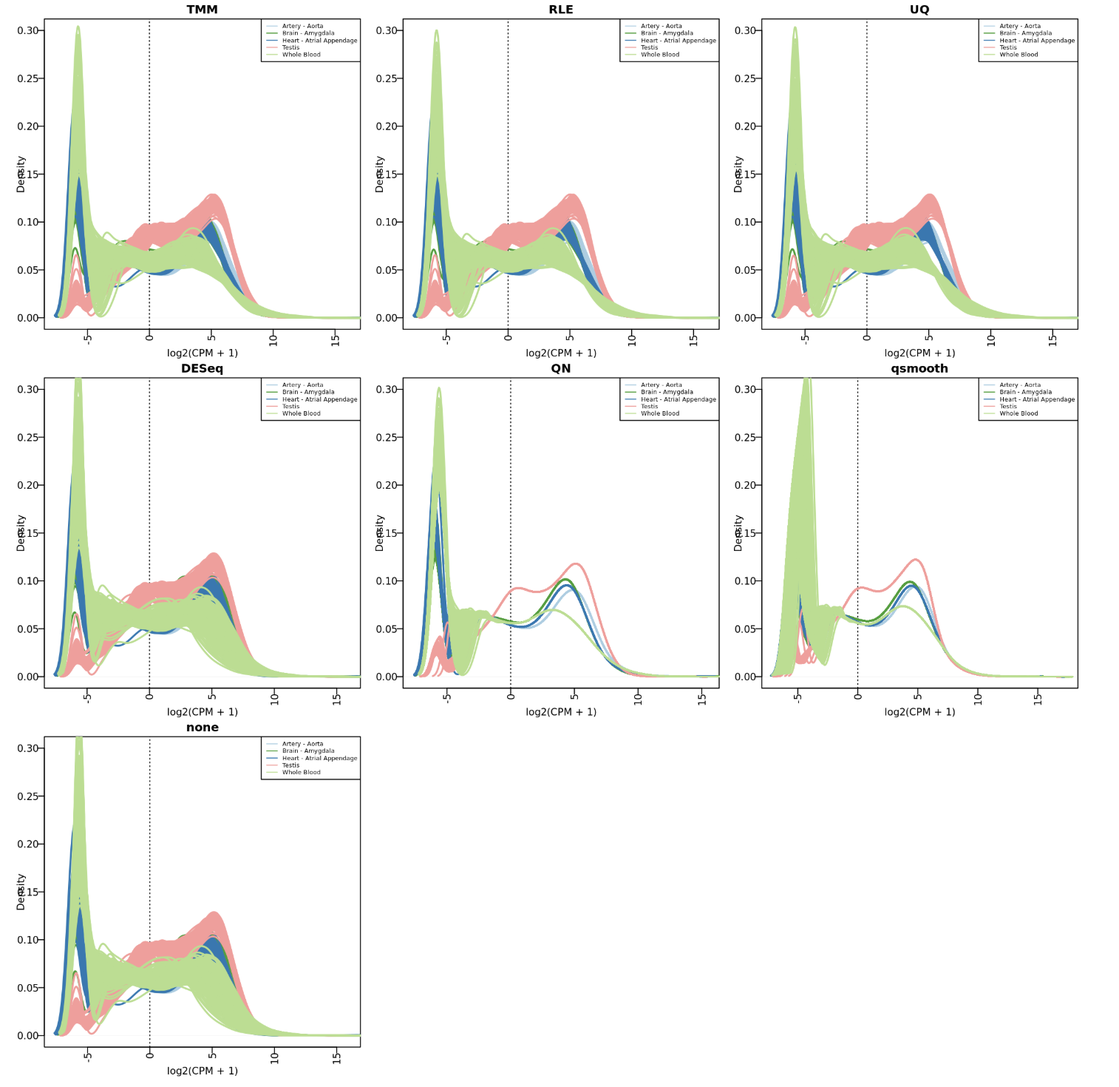
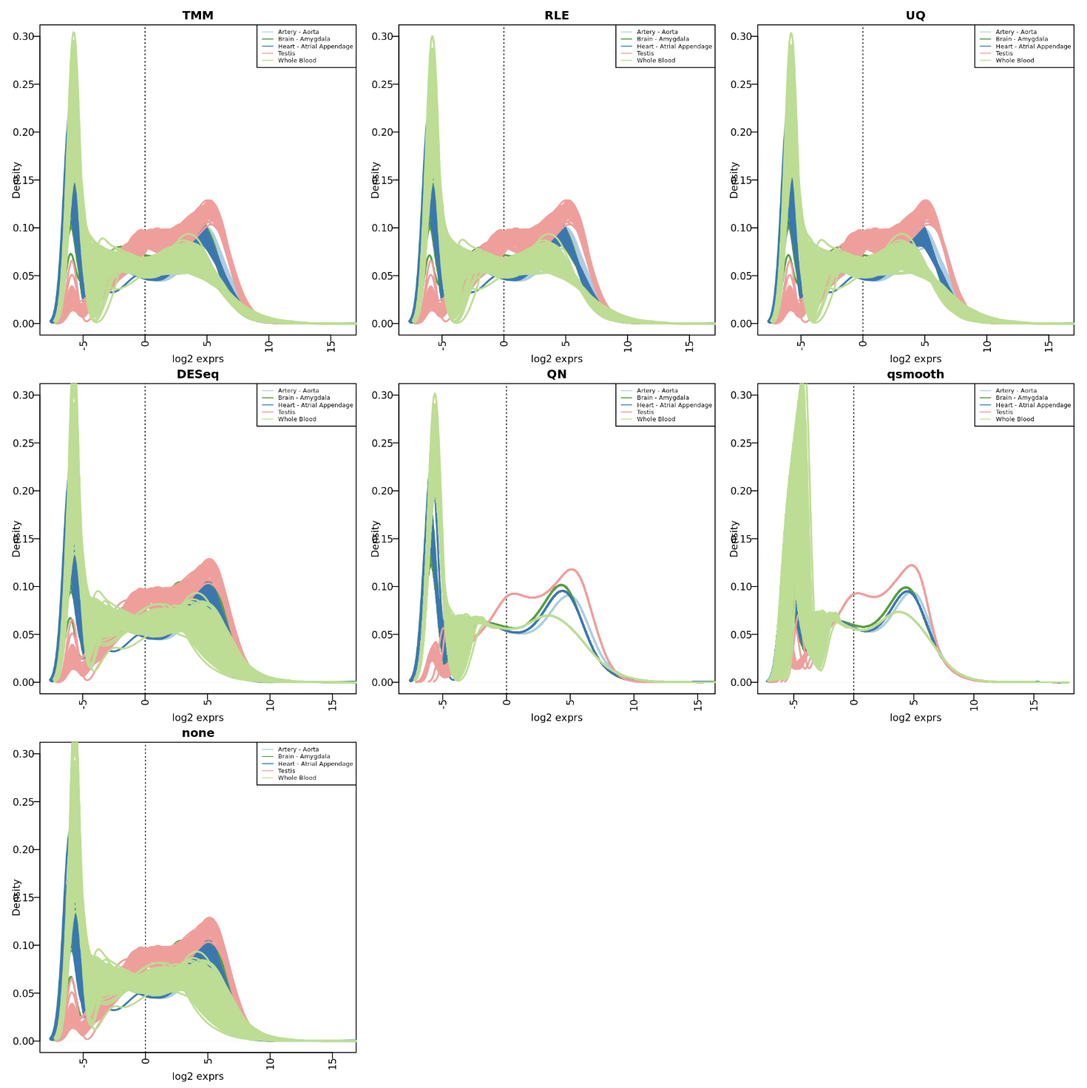
Site updated: 2019-12-26 15:07:43

Changed region(s): [[0.0, 0.0, 1.0, 1.0], [0.1224, 0.949, 0.1531, 0.9796]]

diff --git a/2019/12/25/RNA-norm-implement/index.html b/2019/12/25/RNA-norm-implement/index.html
@@ -7,7 +7,7 @@
     <meta name="HandheldFriendly" content="True">
     <meta name="viewport" content="width=device-width, initial-scale=1, maximum-scale=1">
     <meta name="description" content="In this post I’ll show some GTEx expresssion data using the normalization methods introduced in my last post: Normalization methods for RNA-seq. Actually I was suggested to compare all these methods b">
-<meta name="keywords" content="RNA-seq">
+<meta name="keywords" content="RNA-seq,Normalization">
 <meta property="og:type" content="article">
 <meta property="og:title" content="Implementations of normalization methods for RNA-seq">
 <meta property="og:url" content="http://yoursite.com/2019/12/25/RNA-norm-implement/index.html">
@@ -15,7 +15,7 @@
 <meta property="og:description" content="In this post I’ll show some GTEx expresssion data using the normalization methods introduced in my last post: Normalization methods for RNA-seq. Actually I was suggested to compare all these methods b">
 <meta property="og:locale" content="en">
 <meta property="og:image" content="http://yoursite.com/images/posts/RNA-norm/distributions.png">
-<meta property="og:updated_time" content="2019-12-25T09:37:41.585Z">
+<meta property="og:updated_time" content="2019-12-26T06:50:05.681Z">
 <meta name="twitter:card" content="summary">
 <meta name="twitter:title" content="Implementations of normalization methods for RNA-seq">
 <meta name="twitter:description" content="In this post I’ll show some GTEx expresssion data using the normalization methods introduced in my last post: Normalization methods for RNA-seq. Actually I was suggested to compare all these methods b">
@@ -140,7 +140,7 @@
       
     <div class="article-tag">
         <i class="fas fa-tag"></i>
-        <a class="tag-link" href="/tags/RNA-seq/">RNA-seq</a>
+        <a class="tag-link" href="/tags/Normalization/">Normalization</a>, <a class="tag-link" href="/tags/RNA-seq/">RNA-seq</a>
     </div>
 
 
@@ -151,7 +151,7 @@
   <div class="content" itemprop="articleBody">
     <p>In this post I’ll show some GTEx expresssion data using the normalization methods introduced in my last post: <a href="https://chilampoon.github.io/2019/12/17/RNA-norm/" target="_blank" rel="noopener">Normalization methods for RNA-seq</a>.</p>
 <p>Actually I was suggested to compare all these methods before doing DE analylsis by Joey, my advisor :P, I thought just using qsmooth was OK, but we finally ended up with tissue-aware quantile normalization.</p>
-<h2 id="Filter-Genes"><a href="#Filter-Genes" class="headerlink" title="Filter Genes"></a>Filter Genes</h2><p>I am manipulating GTEx v8 data, I first filtered lowly-expressed genes after some prepossesses:</p>
+<h2 id="Filter-Genes"><a href="#Filter-Genes" class="headerlink" title="Filter Genes"></a>Filter Genes</h2><p>I am manipulating GTEx v8 data, so I first filtered lowly-expressed genes after some prepossesses:</p>
 <figure class="highlight plain"><table><tr><td class="gutter"><pre><span class="line">1</span><br><span class="line">2</span><br><span class="line">3</span><br><span class="line">4</span><br><span class="line">5</span><br><span class="line">6</span><br><span class="line">7</span><br><span class="line">8</span><br><span class="line">9</span><br><span class="line">10</span><br><span class="line">11</span><br><span class="line">12</span><br><span class="line">13</span><br><span class="line">14</span><br></pre></td><td class="code"><pre><span class="line">library(edgeR)</span><br><span class="line">tissue.no &lt;- pData(eset) %&gt;%</span><br><span class="line">             group_by(SMTSD) %&gt;%</span><br><span class="line">             summarise(n=n())</span><br><span class="line"></span><br><span class="line"># in tissue-aware manner, refer to YARN paper</span><br><span class="line">min(tissue.no$n) #113</span><br><span class="line">minSamples &lt;- floor(min(tissue.no$n)/2)</span><br><span class="line">cnt.cpm &lt;- cpm(exprs(eset))</span><br><span class="line">keep &lt;- rowSums(cnt.cpm &gt; 1) &gt;= minSamples</span><br><span class="line">eset &lt;- eset[keep,]</span><br><span class="line">dim(eset)</span><br><span class="line">## Features  Samples</span><br><span class="line">##    29212    14437</span><br></pre></td></tr></table></figure>
 
 <h2 id="Compare-Normalization"><a href="#Compare-Normalization" class="headerlink" title="Compare Normalization"></a>Compare Normalization</h2><p>Normalize selected samples in tissue-aware way.</p>
@@ -165,14 +165,14 @@
 <li><strong>none</strong>: original data</li>
 </ol>
 <p>The following is a simple function to perform all of these, extended the one in <code>yarn</code>.</p>
-<figure class="highlight plain"><table><tr><td class="gutter"><pre><span class="line">1</span><br><span class="line">2</span><br><span class="line">3</span><br><span class="line">4</span><br><span class="line">5</span><br><span class="line">6</span><br><span class="line">7</span><br><span class="line">8</span><br><span class="line">9</span><br><span class="line">10</span><br><span class="line">11</span><br><span class="line">12</span><br><span class="line">13</span><br><span class="line">14</span><br><span class="line">15</span><br><span class="line">16</span><br><span class="line">17</span><br><span class="line">18</span><br><span class="line">19</span><br><span class="line">20</span><br><span class="line">21</span><br><span class="line">22</span><br><span class="line">23</span><br><span class="line">24</span><br><span class="line">25</span><br><span class="line">26</span><br><span class="line">27</span><br><span class="line">28</span><br><span class="line">29</span><br><span class="line">30</span><br><span class="line">31</span><br><span class="line">32</span><br><span class="line">33</span><br><span class="line">34</span><br><span class="line">35</span><br><span class="line">36</span><br><span class="line">37</span><br><span class="line">38</span><br><span class="line">39</span><br><span class="line">40</span><br><span class="line">41</span><br><span class="line">42</span><br><span class="line">43</span><br><span class="line">44</span><br><span class="line">45</span><br><span class="line">46</span><br><span class="line">47</span><br><span class="line">48</span><br><span class="line">49</span><br><span class="line">50</span><br><span class="line">51</span><br><span class="line">52</span><br><span class="line">53</span><br><span class="line">54</span><br><span class="line">55</span><br><span class="line">56</span><br><span class="line">57</span><br><span class="line">58</span><br><span class="line">59</span><br><span class="line">60</span><br><span class="line">61</span><br><span class="line">62</span><br><span class="line">63</span><br><span class="line">64</span><br><span class="line">65</span><br><span class="line">66</span><br><span class="line">67</span><br><span class="line">68</span><br><span class="line">69</span><br></pre></td><td class="code"><pre><span class="line">## tissue aware normalization, all returing log2(CPM + 1) since limma uses CPM</span><br><span class="line">tissue.aware.norm &lt;- function(eset, tissues, method=c(&apos;TMM&apos;, &apos;RLE&apos;, &apos;UQ&apos;, &apos;DESeq&apos;, &apos;QN&apos;, &apos;qsmooth&apos;, &apos;none&apos;)) &#123;</span><br><span class="line">  suppressPackageStartupMessages(&#123;</span><br><span class="line">    library(edgeR)</span><br><span class="line">    library(doParallel)</span><br><span class="line">    library(preprocessCore)</span><br><span class="line">    library(DESeq2)</span><br><span class="line">    library(qsmooth)</span><br><span class="line">  &#125;)</span><br><span class="line">  registerDoParallel()</span><br><span class="line">  if (tissues == &apos;SMTSD&apos;) tissues &lt;- factor(pData(eset)[, &apos;SMTSD&apos;])</span><br><span class="line"></span><br><span class="line">  if (method == &apos;TMM&apos;) &#123;</span><br><span class="line">    # weights are from the delta method on Binomial data</span><br><span class="line">    normalizedMatrix &lt;- foreach(tissue = unique(tissues), .combine = cbind) %dopar% &#123;</span><br><span class="line">      cnts &lt;- exprs(eset[, which(pData(eset)$SMTSD %in% tissue)])</span><br><span class="line">      dge &lt;- DGEList(cnts)</span><br><span class="line">      dge &lt;- calcNormFactors(dge, method = &apos;TMM&apos;)</span><br><span class="line">      cpm(dge, log = T, prior.count = 1)</span><br><span class="line">    &#125;</span><br><span class="line">  &#125; else if (method == &apos;RLE&apos;) &#123;</span><br><span class="line">    # the median ratio of each sample to the median library (geometric mean of all columns) is taken as the scale factor</span><br><span class="line">    normalizedMatrix &lt;- foreach(tissue = unique(tissues), .combine = cbind) %dopar% &#123;</span><br><span class="line">      cnts &lt;- exprs(eset[, which(pData(eset)$SMTSD %in% tissue)])</span><br><span class="line">      dge &lt;- DGEList(cnts)</span><br><span class="line">      dge &lt;- calcNormFactors(dge, method = &apos;RLE&apos;)</span><br><span class="line">      cpm(dge, log = T, prior.count = 1)</span><br><span class="line">    &#125;</span><br><span class="line">  &#125; else if (method == &apos;UQ&apos;) &#123;</span><br><span class="line">    # the scale factors are calculated from the 75% quantile of the counts for each library</span><br><span class="line">    normalizedMatrix &lt;- foreach(tissue = unique(tissues), .combine = cbind) %dopar% &#123;</span><br><span class="line">      cnts &lt;- exprs(eset[, which(pData(eset)$SMTSD %in% tissue)])</span><br><span class="line">      dge &lt;- DGEList(cnts)</span><br><span class="line">      dge &lt;- calcNormFactors(dge, method = &apos;upperquartile&apos;)</span><br><span class="line">      cpm(dge, log = T, prior.count = 1)</span><br><span class="line">    &#125;</span><br><span class="line">  &#125; else if (method == &apos;none&apos;) &#123;</span><br><span class="line">    # scale factors are 1</span><br><span class="line">    normalizedMatrix &lt;- foreach(tissue = unique(tissues), .combine = cbind) %dopar% &#123;</span><br><span class="line">      cnts &lt;- exprs(eset[, which(pData(eset)$SMTSD %in% tissue)])</span><br><span class="line">      dge &lt;- DGEList(cnts)</span><br><span class="line">      dge &lt;- calcNormFactors(dge, method = &apos;none&apos;)</span><br><span class="line">      cpm(dge, log = T, prior.count = 1)</span><br><span class="line">    &#125;</span><br><span class="line">  &#125; else if (method == &apos;DESeq&apos;) &#123;</span><br><span class="line">    # counts divided by median ratio of gene counts relative to geometric mean per gene</span><br><span class="line">    normalizedMatrix &lt;- foreach(tissue = unique(tissues), .combine = cbind) %dopar% &#123;</span><br><span class="line">      cnts &lt;- exprs(eset[, which(pData(eset)$SMTSD %in% tissue)])</span><br><span class="line">      dds &lt;- DESeqDataSetFromMatrix(countData = cnts, colData = pData(eset[, which(pData(eset)$SMTSD %in% tissue)]), design = ~ 1)</span><br><span class="line">      dds &lt;- estimateSizeFactors(dds)</span><br><span class="line">      nmat &lt;- counts(dds, normalized=T)</span><br><span class="line">      cpm(nmat, log = T, prior.count = 1)</span><br><span class="line">    &#125;</span><br><span class="line">  &#125; else if (method == &apos;QN&apos;) &#123;</span><br><span class="line">    normalizedMatrix &lt;- foreach(tissue = unique(tissues), .combine = cbind) %dopar% &#123;</span><br><span class="line">      cnts &lt;- exprs(eset[, which(pData(eset)$SMTSD %in% tissue)])</span><br><span class="line">      nmat &lt;- normalize.quantiles(cnts, copy=F)</span><br><span class="line">      cpm(nmat, log = T, prior.count = 1)</span><br><span class="line">    &#125;</span><br><span class="line">  &#125; else if (method == &apos;qsmooth&apos;) &#123;</span><br><span class="line">    exprs &lt;- exprs(eset)</span><br><span class="line">    qs &lt;- qsmooth(exprs, group_factor = tissues)</span><br><span class="line">    normalizedMatrix &lt;- qsmoothData(qs)</span><br><span class="line">    normalizedMatrix &lt;- cpm(normalizedMatrix, log = T, prior.count = 1)</span><br><span class="line">  &#125; else &#123;</span><br><span class="line">    stop(&apos;YEEEE... code it by yourself if you wanna do it.&apos;)</span><br><span class="line">  &#125;</span><br><span class="line">  normalizedMatrix</span><br><span class="line">&#125;</span><br></pre></td></tr></table></figure>
+<figure class="highlight plain"><table><tr><td class="gutter"><pre><span class="line">1</span><br><span class="line">2</span><br><span class="line">3</span><br><span class="line">4</span><br><span class="line">5</span><br><span class="line">6</span><br><span class="line">7</span><br><span class="line">8</span><br><span class="line">9</span><br><span class="line">10</span><br><span class="line">11</span><br><span class="line">12</span><br><span class="line">13</span><br><span class="line">14</span><br><span class="line">15</span><br><span class="line">16</span><br><span class="line">17</span><br><span class="line">18</span><br><span class="line">19</span><br><span class="line">20</span><br><span class="line">21</span><br><span class="line">22</span><br><span class="line">23</span><br><span class="line">24</span><br><span class="line">25</span><br><span class="line">26</span><br><span class="line">27</span><br><span class="line">28</span><br><span class="line">29</span><br><span class="line">30</span><br><span class="line">31</span><br><span class="line">32</span><br><span class="line">33</span><br><span class="line">34</span><br><span class="line">35</span><br><span class="line">36</span><br><span class="line">37</span><br><span class="line">38</span><br><span class="line">39</span><br><span class="line">40</span><br><span class="line">41</span><br><span class="line">42</span><br><span class="line">43</span><br><span class="line">44</span><br><span class="line">45</span><br><span class="line">46</span><br><span class="line">47</span><br><span class="line">48</span><br><span class="line">49</span><br><span class="line">50</span><br><span class="line">51</span><br><span class="line">52</span><br><span class="line">53</span><br><span class="line">54</span><br><span class="line">55</span><br><span class="line">56</span><br><span class="line">57</span><br><span class="line">58</span><br><span class="line">59</span><br><span class="line">60</span><br><span class="line">61</span><br><span class="line">62</span><br><span class="line">63</span><br><span class="line">64</span><br><span class="line">65</span><br><span class="line">66</span><br><span class="line">67</span><br><span class="line">68</span><br><span class="line">69</span><br><span class="line">70</span><br></pre></td><td class="code"><pre><span class="line">## tissue aware normalization, all returing log2-transformed cpm since limma uses cpm</span><br><span class="line">tissue.aware.norm &lt;- function(eset, tissues, method=c(&apos;TMM&apos;, &apos;RLE&apos;, &apos;UQ&apos;, &apos;DESeq&apos;, &apos;QN&apos;, &apos;qsmooth&apos;, &apos;none&apos;)) &#123;</span><br><span class="line">  suppressPackageStartupMessages(&#123;</span><br><span class="line">    library(edgeR)</span><br><span class="line">    library(doParallel)</span><br><span class="line">    library(preprocessCore)</span><br><span class="line">    library(DESeq2)</span><br><span class="line">    library(qsmooth)</span><br><span class="line">  &#125;)</span><br><span class="line">  registerDoParallel()</span><br><span class="line">  if (tissues == &apos;SMTSD&apos;) tissues &lt;- factor(pData(eset)[, &apos;SMTSD&apos;])</span><br><span class="line"></span><br><span class="line">  if (method == &apos;TMM&apos;) &#123;</span><br><span class="line">    # weights are from the delta method on Binomial data</span><br><span class="line">    normalizedMatrix &lt;- foreach(tissue = unique(tissues), .combine = cbind) %dopar% &#123;</span><br><span class="line">      cnts &lt;- exprs(eset[, which(pData(eset)$SMTSD %in% tissue)])</span><br><span class="line">      dge &lt;- DGEList(cnts)</span><br><span class="line">      dge &lt;- calcNormFactors(dge, method = &apos;TMM&apos;)</span><br><span class="line">      cpm(dge, log = T, prior.count = 1)</span><br><span class="line">    &#125;</span><br><span class="line">  &#125; else if (method == &apos;RLE&apos;) &#123;</span><br><span class="line">    # the median ratio of each sample to the median library (geometric mean of all columns) is taken as the scale factor</span><br><span class="line">    normalizedMatrix &lt;- foreach(tissue = unique(tissues), .combine = cbind) %dopar% &#123;</span><br><span class="line">      cnts &lt;- exprs(eset[, which(pData(eset)$SMTSD %in% tissue)])</span><br><span class="line">      dge &lt;- DGEList(cnts)</span><br><span class="line">      dge &lt;- calcNormFactors(dge, method = &apos;RLE&apos;)</span><br><span class="line">      cpm(dge, log = T, prior.count = 1)</span><br><span class="line">    &#125;</span><br><span class="line">  &#125; else if (method == &apos;UQ&apos;) &#123;</span><br><span class="line">    # the scale factors are calculated from the 75% quantile of the counts for each library</span><br><span class="line">    normalizedMatrix &lt;- foreach(tissue = unique(tissues), .combine = cbind) %dopar% &#123;</span><br><span class="line">      cnts &lt;- exprs(eset[, which(pData(eset)$SMTSD %in% tissue)])</span><br><span class="line">      dge &lt;- DGEList(cnts)</span><br><span class="line">      dge &lt;- calcNormFactors(dge, method = &apos;upperquartile&apos;)</span><br><span class="line">      cpm(dge, log = T, prior.count = 1)</span><br><span class="line">    &#125;</span><br><span class="line">  &#125; else if (method == &apos;none&apos;) &#123;</span><br><span class="line">    # scale factors are 1</span><br><span class="line">    normalizedMatrix &lt;- foreach(tissue = unique(tissues), .combine = cbind) %dopar% &#123;</span><br><span class="line">      cnts &lt;- exprs(eset[, which(pData(eset)$SMTSD %in% tissue)])</span><br><span class="line">      dge &lt;- DGEList(cnts)</span><br><span class="line">      dge &lt;- calcNormFactors(dge, method = &apos;none&apos;)</span><br><span class="line">      cpm(dge, log = T, prior.count = 1)</span><br><span class="line">    &#125;</span><br><span class="line">  &#125; else if (method == &apos;DESeq&apos;) &#123;</span><br><span class="line">    # counts divided by median ratio of gene counts relative to geometric mean per gene</span><br><span class="line">    normalizedMatrix &lt;- foreach(tissue = unique(tissues), .combine = cbind) %dopar% &#123;</span><br><span class="line">      cnts &lt;- exprs(eset[, which(pData(eset)$SMTSD %in% tissue)])</span><br><span class="line">      dds &lt;- DESeqDataSetFromMatrix(countData = cnts, colData = pData(eset[, which(pData(eset)$SMTSD %in% tissue)]), design = ~ 1)</span><br><span class="line">      dds &lt;- estimateSizeFactors(dds)</span><br><span class="line">      #cpm &lt;- fpm(dds, robust = T) #a robust method using specific library sizes</span><br><span class="line">      nmat &lt;- counts(dds, normalized=T)</span><br><span class="line">      cpm(nmat, log = T, prior.count = 1)</span><br><span class="line">    &#125;</span><br><span class="line">  &#125; else if (method == &apos;QN&apos;) &#123;</span><br><span class="line">    normalizedMatrix &lt;- foreach(tissue = unique(tissues), .combine = cbind) %dopar% &#123;</span><br><span class="line">      cnts &lt;- exprs(eset[, which(pData(eset)$SMTSD %in% tissue)])</span><br><span class="line">      nmat &lt;- normalize.quantiles(cnts, copy=F)</span><br><span class="line">      cpm(nmat, log = T, prior.count = 1)</span><br><span class="line">    &#125;</span><br><span class="line">  &#125; else if (method == &apos;qsmooth&apos;) &#123;</span><br><span class="line">    exprs &lt;- exprs(eset)</span><br><span class="line">    qs &lt;- qsmooth(exprs, group_factor = tissues)</span><br><span class="line">    normalizedMatrix &lt;- qsmoothData(qs)</span><br><span class="line">    normalizedMatrix &lt;- cpm(normalizedMatrix, log = T, prior.count = 1)</span><br><span class="line">  &#125; else &#123;</span><br><span class="line">    stop(&apos;YEEEE... code it by yourself if you wanna do it.&apos;)</span><br><span class="line">  &#125;</span><br><span class="line">  normalizedMatrix</span><br><span class="line">&#125;</span><br></pre></td></tr></table></figure>
 
 <h2 id="Visualize-distributions"><a href="#Visualize-distributions" class="headerlink" title="Visualize distributions"></a>Visualize distributions</h2><p>I chose some tissues to see their distribution.</p>
 <p>Some helper functions:</p>
-<figure class="highlight plain"><table><tr><td class="gutter"><pre><span class="line">1</span><br><span class="line">2</span><br><span class="line">3</span><br><span class="line">4</span><br><span class="line">5</span><br><span class="line">6</span><br><span class="line">7</span><br><span class="line">8</span><br><span class="line">9</span><br><span class="line">10</span><br><span class="line">11</span><br><span class="line">12</span><br><span class="line">13</span><br><span class="line">14</span><br><span class="line">15</span><br><span class="line">16</span><br><span class="line">17</span><br><span class="line">18</span><br><span class="line">19</span><br><span class="line">20</span><br><span class="line">21</span><br><span class="line">22</span><br><span class="line">23</span><br><span class="line">24</span><br><span class="line">25</span><br><span class="line">26</span><br><span class="line">27</span><br><span class="line">28</span><br><span class="line">29</span><br><span class="line">30</span><br><span class="line">31</span><br><span class="line">32</span><br></pre></td><td class="code"><pre><span class="line">getColors &lt;- function(vec) &#123;</span><br><span class="line">  # assgin a color to each group of samples</span><br><span class="line">  library(RColorBrewer)</span><br><span class="line">  n &lt;- length(unique(vec))</span><br><span class="line">  col &lt;- brewer.pal(n, &quot;Paired&quot;)</span><br><span class="line">  #col &lt;- brewer.pal.info[brewer.pal.info$category==&apos;qual&apos;, ] # get max. 74 colours</span><br><span class="line">  #col_all &lt;- unlist(mapply(brewer.pal, col$maxcolors, rownames(col)))</span><br><span class="line">  ifelse (n &gt; length(col),</span><br><span class="line">          cvec &lt;- sample(col, n, replace=T),</span><br><span class="line">          cvec &lt;- sample(col, n, replace=F)</span><br><span class="line">  )</span><br><span class="line">  vec &lt;- as.character(vec)</span><br><span class="line">  names(vec) &lt;- rep(NA, length(vec))</span><br><span class="line">  for (g in 1:length(unique(vec))) &#123;</span><br><span class="line">    names(vec)[which(vec==unique(vec)[g])] &lt;- cvec[g]</span><br><span class="line">  &#125;</span><br><span class="line">  vec</span><br><span class="line">&#125;</span><br><span class="line"></span><br><span class="line"></span><br><span class="line">dens.plot &lt;- function(table, colVec, ylim, main) &#123;</span><br><span class="line">  cols &lt;- names(colVec)</span><br><span class="line">  d &lt;- plot(density(table[, 1]), col=cols[1],</span><br><span class="line">            lwd=2, las=2, ylim=ylim, main=&quot;&quot;, xlab=&quot;&quot;) +</span><br><span class="line">    abline(v=0, lty=3) + title(xlab=&quot;log2(CPM + 1)&quot;, ylab=NA, main=main) +</span><br><span class="line">    for (i in 2:ncol(table)) &#123;</span><br><span class="line">      den &lt;- density(table[, i])</span><br><span class="line">      lines(den$x, den$y, col=cols[i], lwd=2)</span><br><span class="line">    &#125;</span><br><span class="line">  legend(&apos;topright&apos;, legend=unique(colVector), lty=1, col=unique(names(colVector)), cex=0.6)</span><br><span class="line">  d</span><br><span class="line">&#125;</span><br></pre></td></tr></table></figure>
+<figure class="highlight plain"><table><tr><td class="gutter"><pre><span class="line">1</span><br><span class="line">2</span><br><span class="line">3</span><br><span class="line">4</span><br><span class="line">5</span><br><span class="line">6</span><br><span class="line">7</span><br><span class="line">8</span><br><span class="line">9</span><br><span class="line">10</span><br><span class="line">11</span><br><span class="line">12</span><br><span class="line">13</span><br><span class="line">14</span><br><span class="line">15</span><br><span class="line">16</span><br><span class="line">17</span><br><span class="line">18</span><br><span class="line">19</span><br><span class="line">20</span><br><span class="line">21</span><br><span class="line">22</span><br><span class="line">23</span><br><span class="line">24</span><br><span class="line">25</span><br><span class="line">26</span><br><span class="line">27</span><br><span class="line">28</span><br><span class="line">29</span><br><span class="line">30</span><br><span class="line">31</span><br><span class="line">32</span><br></pre></td><td class="code"><pre><span class="line">getColors &lt;- function(vec) &#123;</span><br><span class="line">  # assgin a color to each group of samples</span><br><span class="line">  library(RColorBrewer)</span><br><span class="line">  n &lt;- length(unique(vec))</span><br><span class="line">  col &lt;- brewer.pal(n, &quot;Paired&quot;)</span><br><span class="line">  #col &lt;- brewer.pal.info[brewer.pal.info$category==&apos;qual&apos;, ] # get max. 74 colours</span><br><span class="line">  #col_all &lt;- unlist(mapply(brewer.pal, col$maxcolors, rownames(col)))</span><br><span class="line">  ifelse (n &gt; length(col),</span><br><span class="line">          cvec &lt;- sample(col, n, replace=T),</span><br><span class="line">          cvec &lt;- sample(col, n, replace=F)</span><br><span class="line">  )</span><br><span class="line">  vec &lt;- as.character(vec)</span><br><span class="line">  names(vec) &lt;- rep(NA, length(vec))</span><br><span class="line">  for (g in 1:length(unique(vec))) &#123;</span><br><span class="line">    names(vec)[which(vec==unique(vec)[g])] &lt;- cvec[g]</span><br><span class="line">  &#125;</span><br><span class="line">  vec</span><br><span class="line">&#125;</span><br><span class="line"></span><br><span class="line"></span><br><span class="line">dens.plot &lt;- function(table, colVec, ...) &#123;</span><br><span class="line">  cols &lt;- names(colVec)</span><br><span class="line">  d &lt;- plot(density(table[, 1]), col=cols[1],</span><br><span class="line">            lwd=2, las=2, xlab=&quot;&quot;, ...) +</span><br><span class="line">    abline(v=0, lty=3) + title(xlab=&quot;log2 exprs&quot;, ylab=NA) +</span><br><span class="line">    for (i in 2:ncol(table)) &#123;</span><br><span class="line">      den &lt;- density(table[, i])</span><br><span class="line">      lines(den$x, den$y, col=cols[i], lwd=2)</span><br><span class="line">    &#125;</span><br><span class="line">  legend(&apos;topright&apos;, legend=unique(colVector), lty=1, col=unique(names(colVector)), cex=0.6)</span><br><span class="line">  d</span><br><span class="line">&#125;</span><br></pre></td></tr></table></figure>
 
 <p>Present the distributions:</p>
-<figure class="highlight plain"><table><tr><td class="gutter"><pre><span class="line">1</span><br><span class="line">2</span><br><span class="line">3</span><br><span class="line">4</span><br><span class="line">5</span><br><span class="line">6</span><br><span class="line">7</span><br><span class="line">8</span><br><span class="line">9</span><br><span class="line">10</span><br><span class="line">11</span><br><span class="line">12</span><br><span class="line">13</span><br><span class="line">14</span><br><span class="line">15</span><br><span class="line">16</span><br><span class="line">17</span><br><span class="line">18</span><br><span class="line">19</span><br></pre></td><td class="code"><pre><span class="line">selectt &lt;- c(&apos;Brain - Amygdala&apos;, &apos;Artery - Aorta&apos;, &apos;Heart - Atrial Appendage&apos;, &apos;Whole Blood&apos;, &apos;Testis&apos;)</span><br><span class="line">sub.eset &lt;- eset[, which(pData(eset)$SMTSD %in% selectt)]</span><br><span class="line">dim(sub.eset)</span><br><span class="line"></span><br><span class="line">dist.list &lt;- list()</span><br><span class="line">for (n in c(&apos;TMM&apos;, &apos;RLE&apos;, &apos;UQ&apos;, &apos;DESeq&apos;, &apos;QN&apos;, &apos;qsmooth&apos;, &apos;none&apos;)) &#123;</span><br><span class="line">  dist.list[[n]] &lt;- tissue.aware.norm(sub.eset, &quot;SMTSD&quot;, n)</span><br><span class="line">&#125;</span><br><span class="line">saveRDS(dist.list, file=&apos;~/cvd/v8/exprs/norm.cpm.rds&apos;)</span><br><span class="line"></span><br><span class="line">sub.p &lt;- pData(sub.eset)</span><br><span class="line">sub.p$SMTSD &lt;- factor(sub.p$SMTSD)</span><br><span class="line">sub.p &lt;- sub.p[order(sub.p$SMTSD),]</span><br><span class="line">colVector &lt;- getColors(sub.p$SMTSD)</span><br><span class="line"></span><br><span class="line">mypar(3, 3)</span><br><span class="line">for (n in c(&apos;TMM&apos;, &apos;RLE&apos;, &apos;UQ&apos;, &apos;DESeq&apos;, &apos;QN&apos;, &apos;qsmooth&apos;, &apos;none&apos;)) &#123;</span><br><span class="line">  print(dens.plot(dist.list[[n]][,match(rownames(sub.p), colnames(dist.list[[n]]))], colVector, c(0, 0.3), title=n))</span><br><span class="line">&#125;</span><br></pre></td></tr></table></figure>
+<figure class="highlight plain"><table><tr><td class="gutter"><pre><span class="line">1</span><br><span class="line">2</span><br><span class="line">3</span><br><span class="line">4</span><br><span class="line">5</span><br><span class="line">6</span><br><span class="line">7</span><br><span class="line">8</span><br><span class="line">9</span><br><span class="line">10</span><br><span class="line">11</span><br><span class="line">12</span><br><span class="line">13</span><br><span class="line">14</span><br><span class="line">15</span><br><span class="line">16</span><br><span class="line">17</span><br><span class="line">18</span><br><span class="line">19</span><br><span class="line">20</span><br></pre></td><td class="code"><pre><span class="line">selectt &lt;- c(&apos;Brain - Amygdala&apos;, &apos;Artery - Aorta&apos;, &apos;Heart - Atrial Appendage&apos;, &apos;Whole Blood&apos;, &apos;Testis&apos;)</span><br><span class="line">sub.eset &lt;- eset[, which(pData(eset)$SMTSD %in% selectt)]</span><br><span class="line">dim(sub.eset)</span><br><span class="line"></span><br><span class="line">dist.list &lt;- list()</span><br><span class="line">methods &lt;- c(&apos;TMM&apos;, &apos;RLE&apos;, &apos;UQ&apos;, &apos;DESeq&apos;, &apos;QN&apos;, &apos;qsmooth&apos;, &apos;none&apos;)</span><br><span class="line">for (n in methods) &#123;</span><br><span class="line">  dist.list[[n]] &lt;- tissue.aware.norm(sub.eset, &quot;SMTSD&quot;, n)</span><br><span class="line">&#125;</span><br><span class="line">#saveRDS(dist.list, file=&apos;~/cvd/v8/exprs/norm.cpm.rds&apos;)</span><br><span class="line"></span><br><span class="line">sub.p &lt;- pData(sub.eset)</span><br><span class="line">sub.p$SMTSD &lt;- factor(sub.p$SMTSD)</span><br><span class="line">sub.p &lt;- sub.p[order(sub.p$SMTSD),]</span><br><span class="line">colVector &lt;- getColors(sub.p$SMTSD)</span><br><span class="line"></span><br><span class="line">mypar(3, 3)</span><br><span class="line">for (n in methods) &#123;</span><br><span class="line">  print(dens.plot(dist.list[[n]][,match(rownames(sub.p), colnames(dist.list[[n]]))], colVector, ylim=c(0, 0.3), main=n))</span><br><span class="line">&#125;</span><br></pre></td></tr></table></figure>
 
 <img src="/images/posts/RNA-norm/distributions.png" alt="distributions" width="1000">
 

diff --git a/tags/Normalization/index.html b/tags/Normalization/index.html
@@ -1,0 +1,199 @@
+<!DOCTYPE html>
+<html lang=en>
+<head><meta name="generator" content="Hexo 3.9.0">
+    <!-- so meta -->
+    <meta charset="utf-8">
+    <meta http-equiv="X-UA-Compatible" content="IE=edge">
+    <meta name="HandheldFriendly" content="True">
+    <meta name="viewport" content="width=device-width, initial-scale=1, maximum-scale=1">
+    <meta property="og:type" content="website">
+<meta property="og:title" content="Chi Lam Poon">
+<meta property="og:url" content="http://yoursite.com/tags/Normalization/index.html">
+<meta property="og:site_name" content="Chi Lam Poon">
+<meta property="og:locale" content="en">
+<meta name="twitter:card" content="summary">
+<meta name="twitter:title" content="Chi Lam Poon">
+    
+    
+        
+          
+              <link rel="shortcut icon" href="/images/favicon-new/favicon.ico">
+          
+        
+        
+          
+            <link rel="icon" type="image/png" href="/images/favicon-new/android-chrome-192x192.png" sizes="192x192">
+          
+        
+        
+          
+            <link rel="apple-touch-icon" sizes="180x180" href="https://www.gravatar.com/avatar/fbe15844b2cac484bb2b10c24e605040?s=180">
+          
+        
+    
+    <!-- title -->
+    <title>Tag: Normalization</title>
+    <!-- styles -->
+    <link rel="stylesheet" href="/css/style.css">
+    <!-- persian styles -->
+    
+      <link rel="stylesheet" href="/css/rtl.css">
+    
+    <!-- rss -->
+    
+    
+</head>
+
+<body class="max-width mx-auto px3 ltr">
+    
+    <div class="content index py4">
+        
+          <header id="header">
+  <a href="/">
+  
+    
+      <div id="logo" style="background-image: url(/images/favicon-new/android-chrome-256x256.png);"></div>
+    
+  
+    <div id="title">
+      <h1>Chi Lam Poon</h1>
+    </div>
+  </a>
+  <div id="nav">
+    <ul>
+      <li class="icon">
+        <a href="#"><i class="fas fa-bars fa-2x"></i></a>
+      </li>
+       
+        <li><a href="/">Home</a></li>
+       
+        <li><a href="/about/">About</a></li>
+       
+        <li><a href="/archives/">Blog</a></li>
+       
+        <li><a href="/projects/">Projects</a></li>
+       
+        <li><a href="/friends/">Friends</a></li>
+      
+    </ul>
+  </div>
+</header>
+
+        
+        <div id="archive">
+  <ul class="post-list">
+    
+    
+    
+    
+      
+      
+      
+      
+        <h2>2019</h2>
+      
+      <li class="post-item">
+        
+    <div class="meta">
+      
+        
+          <time datetime="2019-12-25T07:47:48.000Z" itemprop="datePublished">2019-12-25</time>
+        
+      
+    </div>
+
+
+        <span>
+    
+        <a class="" href="/2019/12/25/RNA-norm-implement/">Implementations of normalization methods for RNA-seq</a>
+    
+
+
+</span>
+      </li>
+    
+      
+      
+      
+      
+      <li class="post-item">
+        
+    <div class="meta">
+      
+        
+          <time datetime="2019-12-17T05:49:03.000Z" itemprop="datePublished">2019-12-17</time>
+        
+      
+    </div>
+
+
+        <span>
+    
+        <a class="" href="/2019/12/17/RNA-norm/">Normalization methods for RNA-seq</a>
+    
+
+
+</span>
+      </li>
+    
+  </ul>
+  
+
+</div>
+
+        
+        <footer id="footer">
+  <div class="footer-left">
+    Copyright &copy; 2019 Chilam
+  </div>
+  <div class="footer-right">
+    <nav>
+      <ul>
+         
+          <li><a href="/">Home</a></li>
+         
+          <li><a href="/about/">About</a></li>
+         
+          <li><a href="/archives/">Blog</a></li>
+         
+          <li><a href="/projects/">Projects</a></li>
+         
+          <li><a href="/friends/">Friends</a></li>
+        
+      </ul>
+    </nav>
+  </div>
+</footer>
+
+    </div>
+    <!-- styles -->
+<link rel="stylesheet" href="/lib/font-awesome/css/all.min.css">
+<link rel="stylesheet" href="/lib/justified-gallery/css/justifiedGallery.min.css">
+
+    <!-- jquery -->
+<script src="/lib/jquery/jquery.min.js"></script>
+<script src="/lib/justified-gallery/js/jquery.justifiedGallery.min.js"></script>
+<script src="/js/main.js"></script>
+<!-- search -->
+
+<!-- Google Analytics -->
+
+<!-- Baidu Analytics -->
+
+<!-- Disqus Comments -->
+
+    <script type="text/javascript">
+        var disqus_shortname = 'darklings';
+
+        (function(){
+            var dsq = document.createElement('script');
+            dsq.type = 'text/javascript';
+            dsq.async = true;
+            dsq.src = '//' + disqus_shortname + '.disqus.com/count.js';
+            (document.getElementsByTagName('head')[0] || document.getElementsByTagName('body')[0]).appendChild(dsq);
+        }());
+    </script>
+
+
+</body>
+</html>

diff --git a/2019/12/17/RNA-norm/index.html b/2019/12/17/RNA-norm/index.html
@@ -7,7 +7,7 @@
     <meta name="HandheldFriendly" content="True">
     <meta name="viewport" content="width=device-width, initial-scale=1, maximum-scale=1">
     <meta name="description" content="Why normalization?I usually make the reasons for every implementation or analysis clear and this is much more important than knowing how to do something. The reason to do normalization is very simple:">
-<meta name="keywords" content="RNA-seq">
+<meta name="keywords" content="RNA-seq,Normalization">
 <meta property="og:type" content="article">
 <meta property="og:title" content="Normalization methods for RNA-seq">
 <meta property="og:url" content="http://yoursite.com/2019/12/17/RNA-norm/index.html">
@@ -20,7 +20,7 @@
 <meta property="og:image" content="http://yoursite.com/images/posts/RNA-norm/composition.png">
 <meta property="og:image" content="http://yoursite.com/images/posts/RNA-norm/cpm.png">
 <meta property="og:image" content="http://yoursite.com/images/posts/RNA-norm/QN.explain.png">
-<meta property="og:updated_time" content="2019-12-24T13:01:42.464Z">
+<meta property="og:updated_time" content="2019-12-25T09:54:24.728Z">
 <meta name="twitter:card" content="summary">
 <meta name="twitter:title" content="Normalization methods for RNA-seq">
 <meta name="twitter:description" content="Why normalization?I usually make the reasons for every implementation or analysis clear and this is much more important than knowing how to do something. The reason to do normalization is very simple:">
@@ -147,7 +147,7 @@
       
     <div class="article-tag">
         <i class="fas fa-tag"></i>
-        <a class="tag-link" href="/tags/RNA-seq/">RNA-seq</a>
+        <a class="tag-link" href="/tags/Normalization/">Normalization</a>, <a class="tag-link" href="/tags/RNA-seq/">RNA-seq</a>
     </div>
 
 
